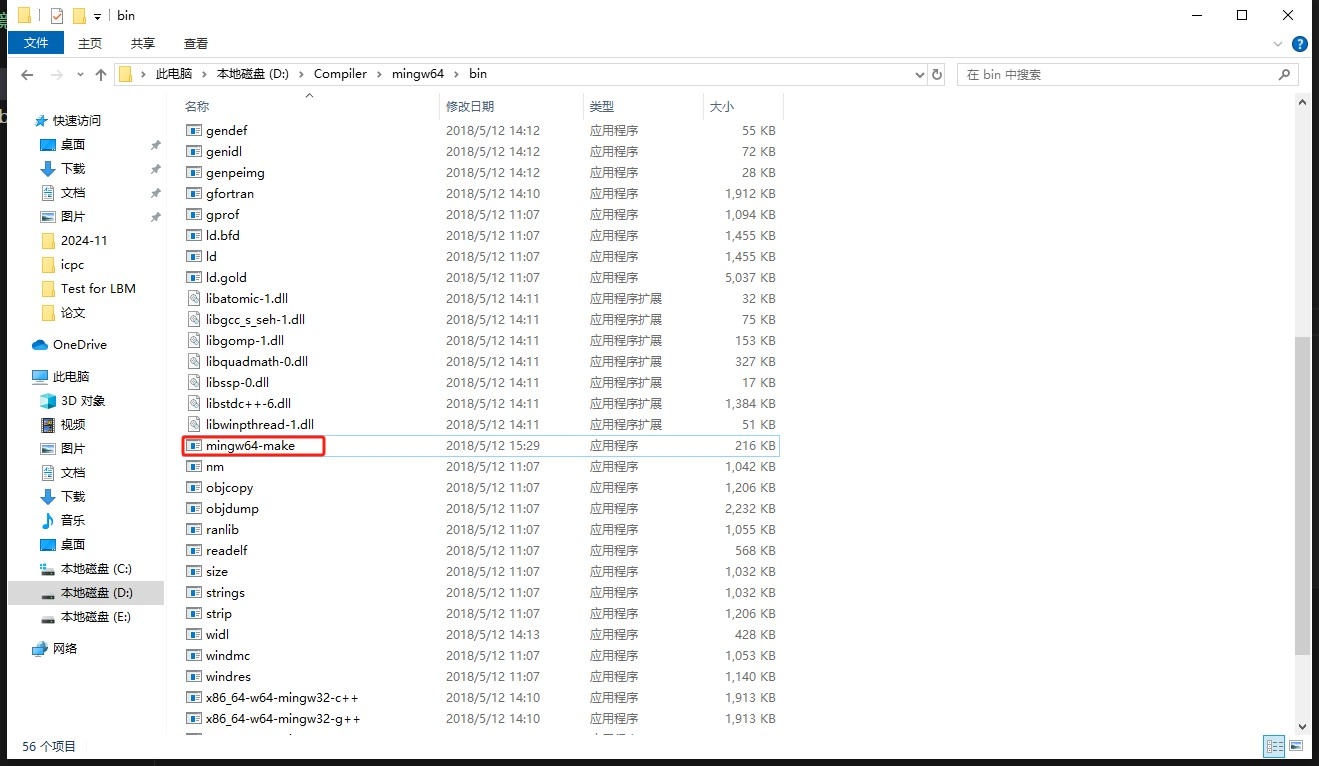
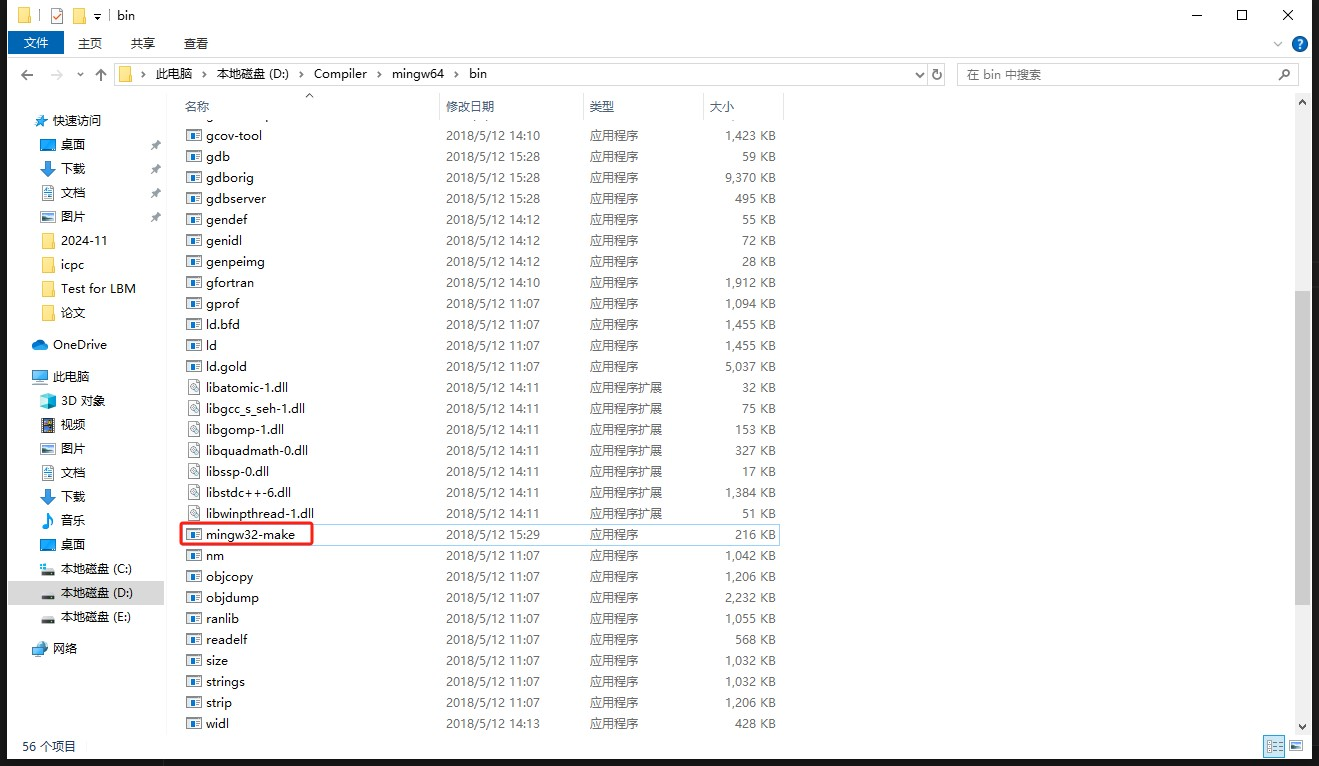
CMake Configuration

diff --git a/VScode-CMake环境配置/README.md b/VScode-CMake环境配置/README.md
@@ -37,15 +37,5 @@ cmake ..
 直接在Vscode终端输入
 
 ```
-mingw64-make
+mingw32-make
 ```
-
-当然实际上这个命令参数太长，可以将mingw64-make.exe直接重命名为make.exe，
-
-这样直接在Vscode终端输入
-
-```
-make
-```
-
-就可以生成可执行文件。
